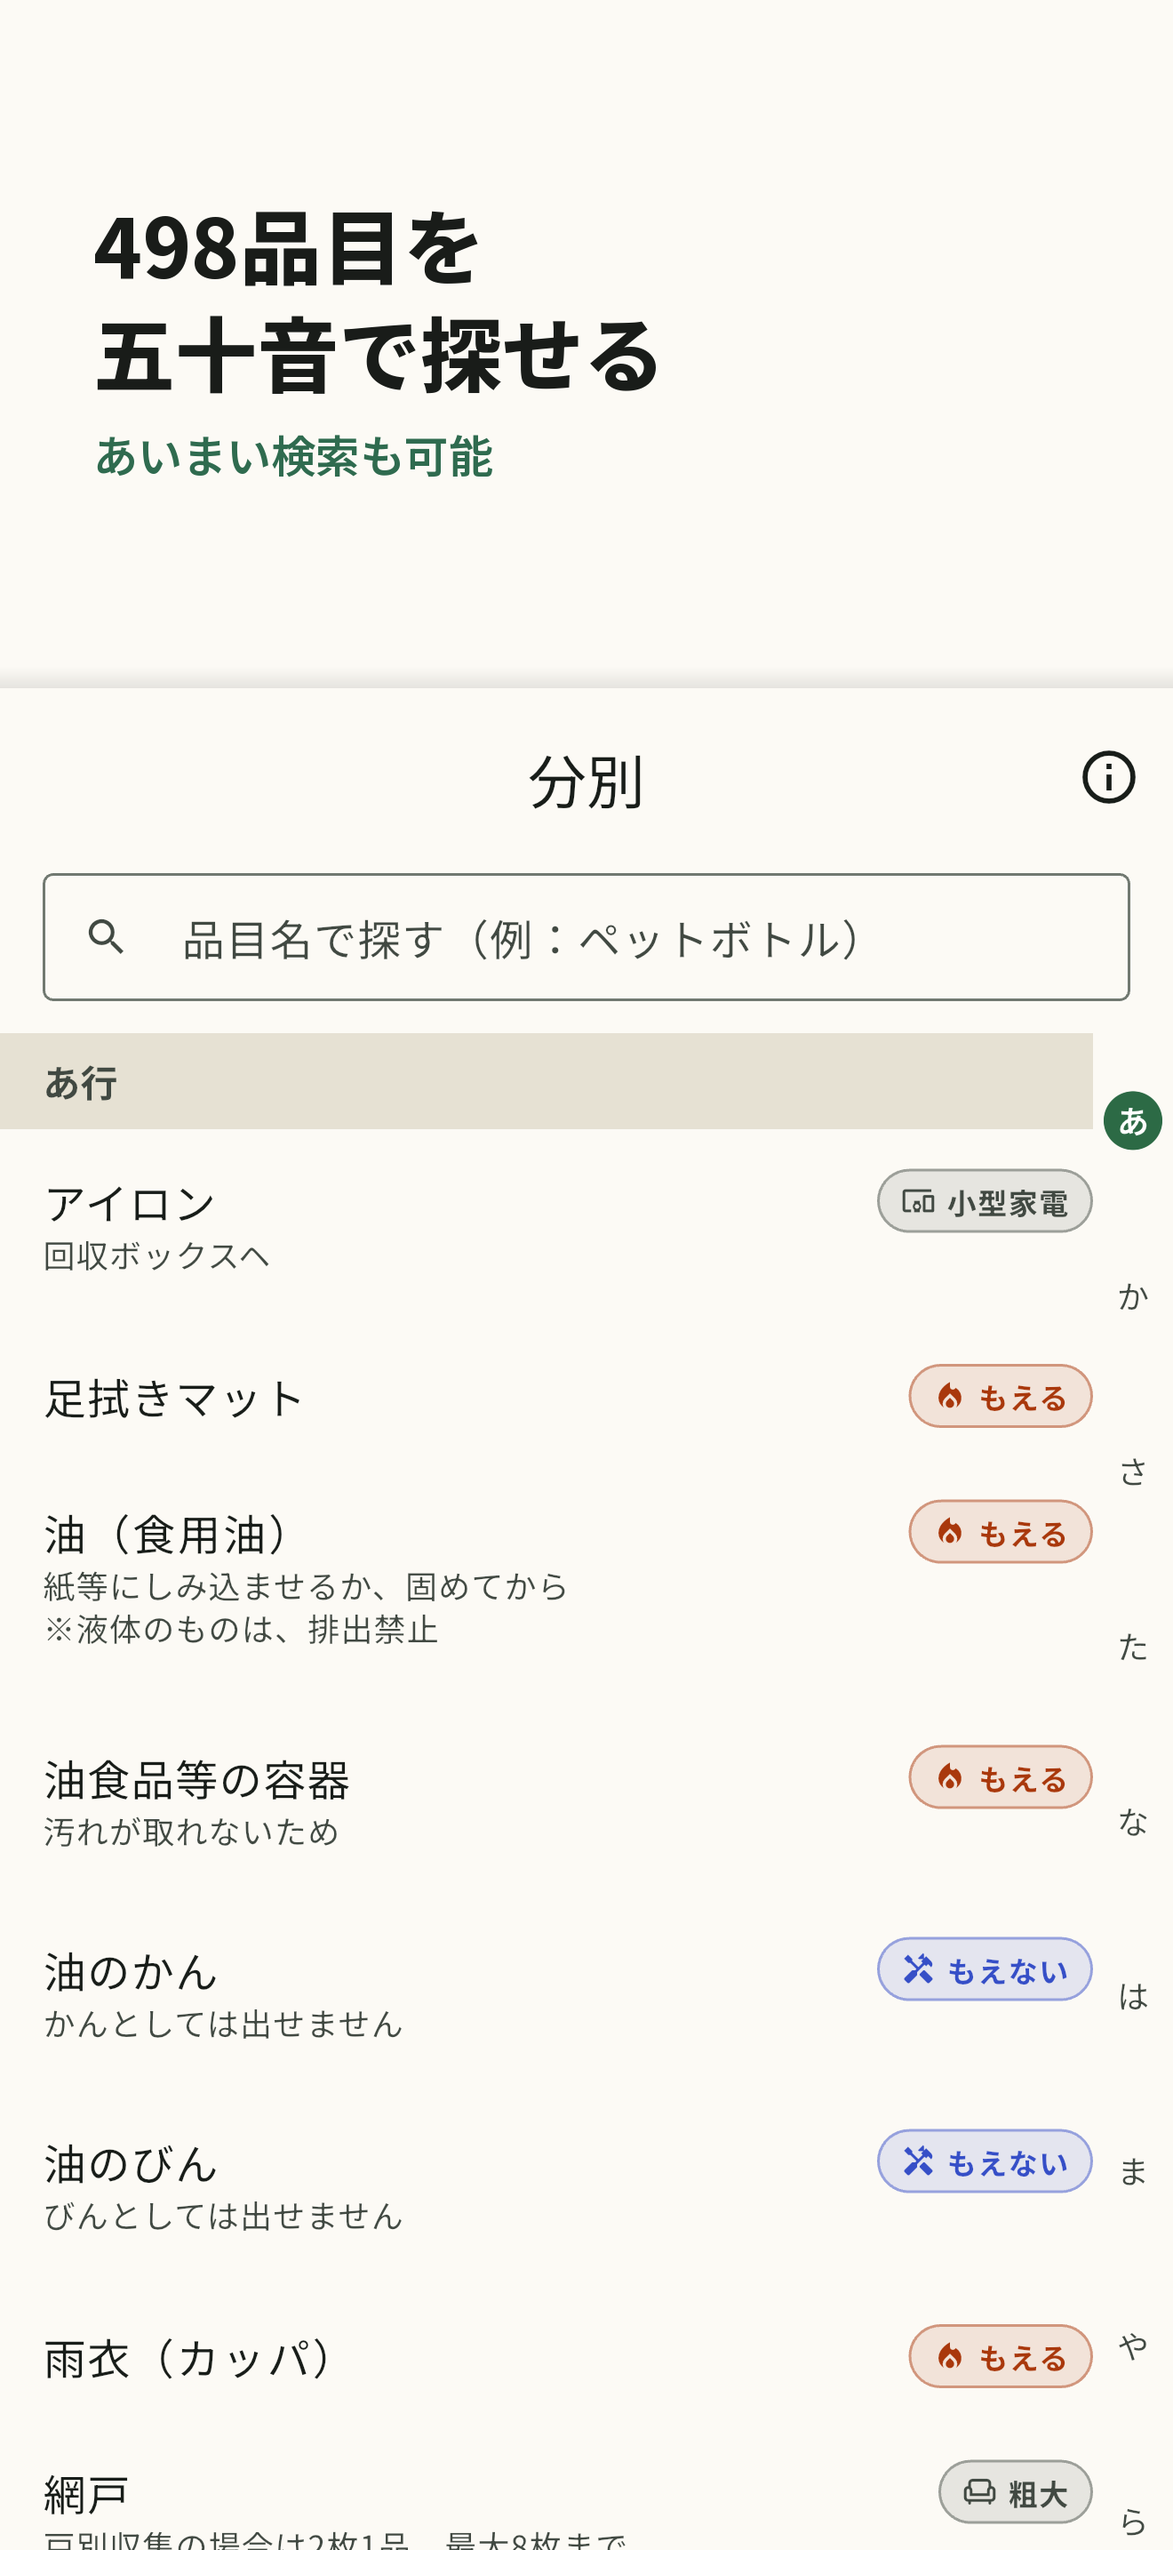
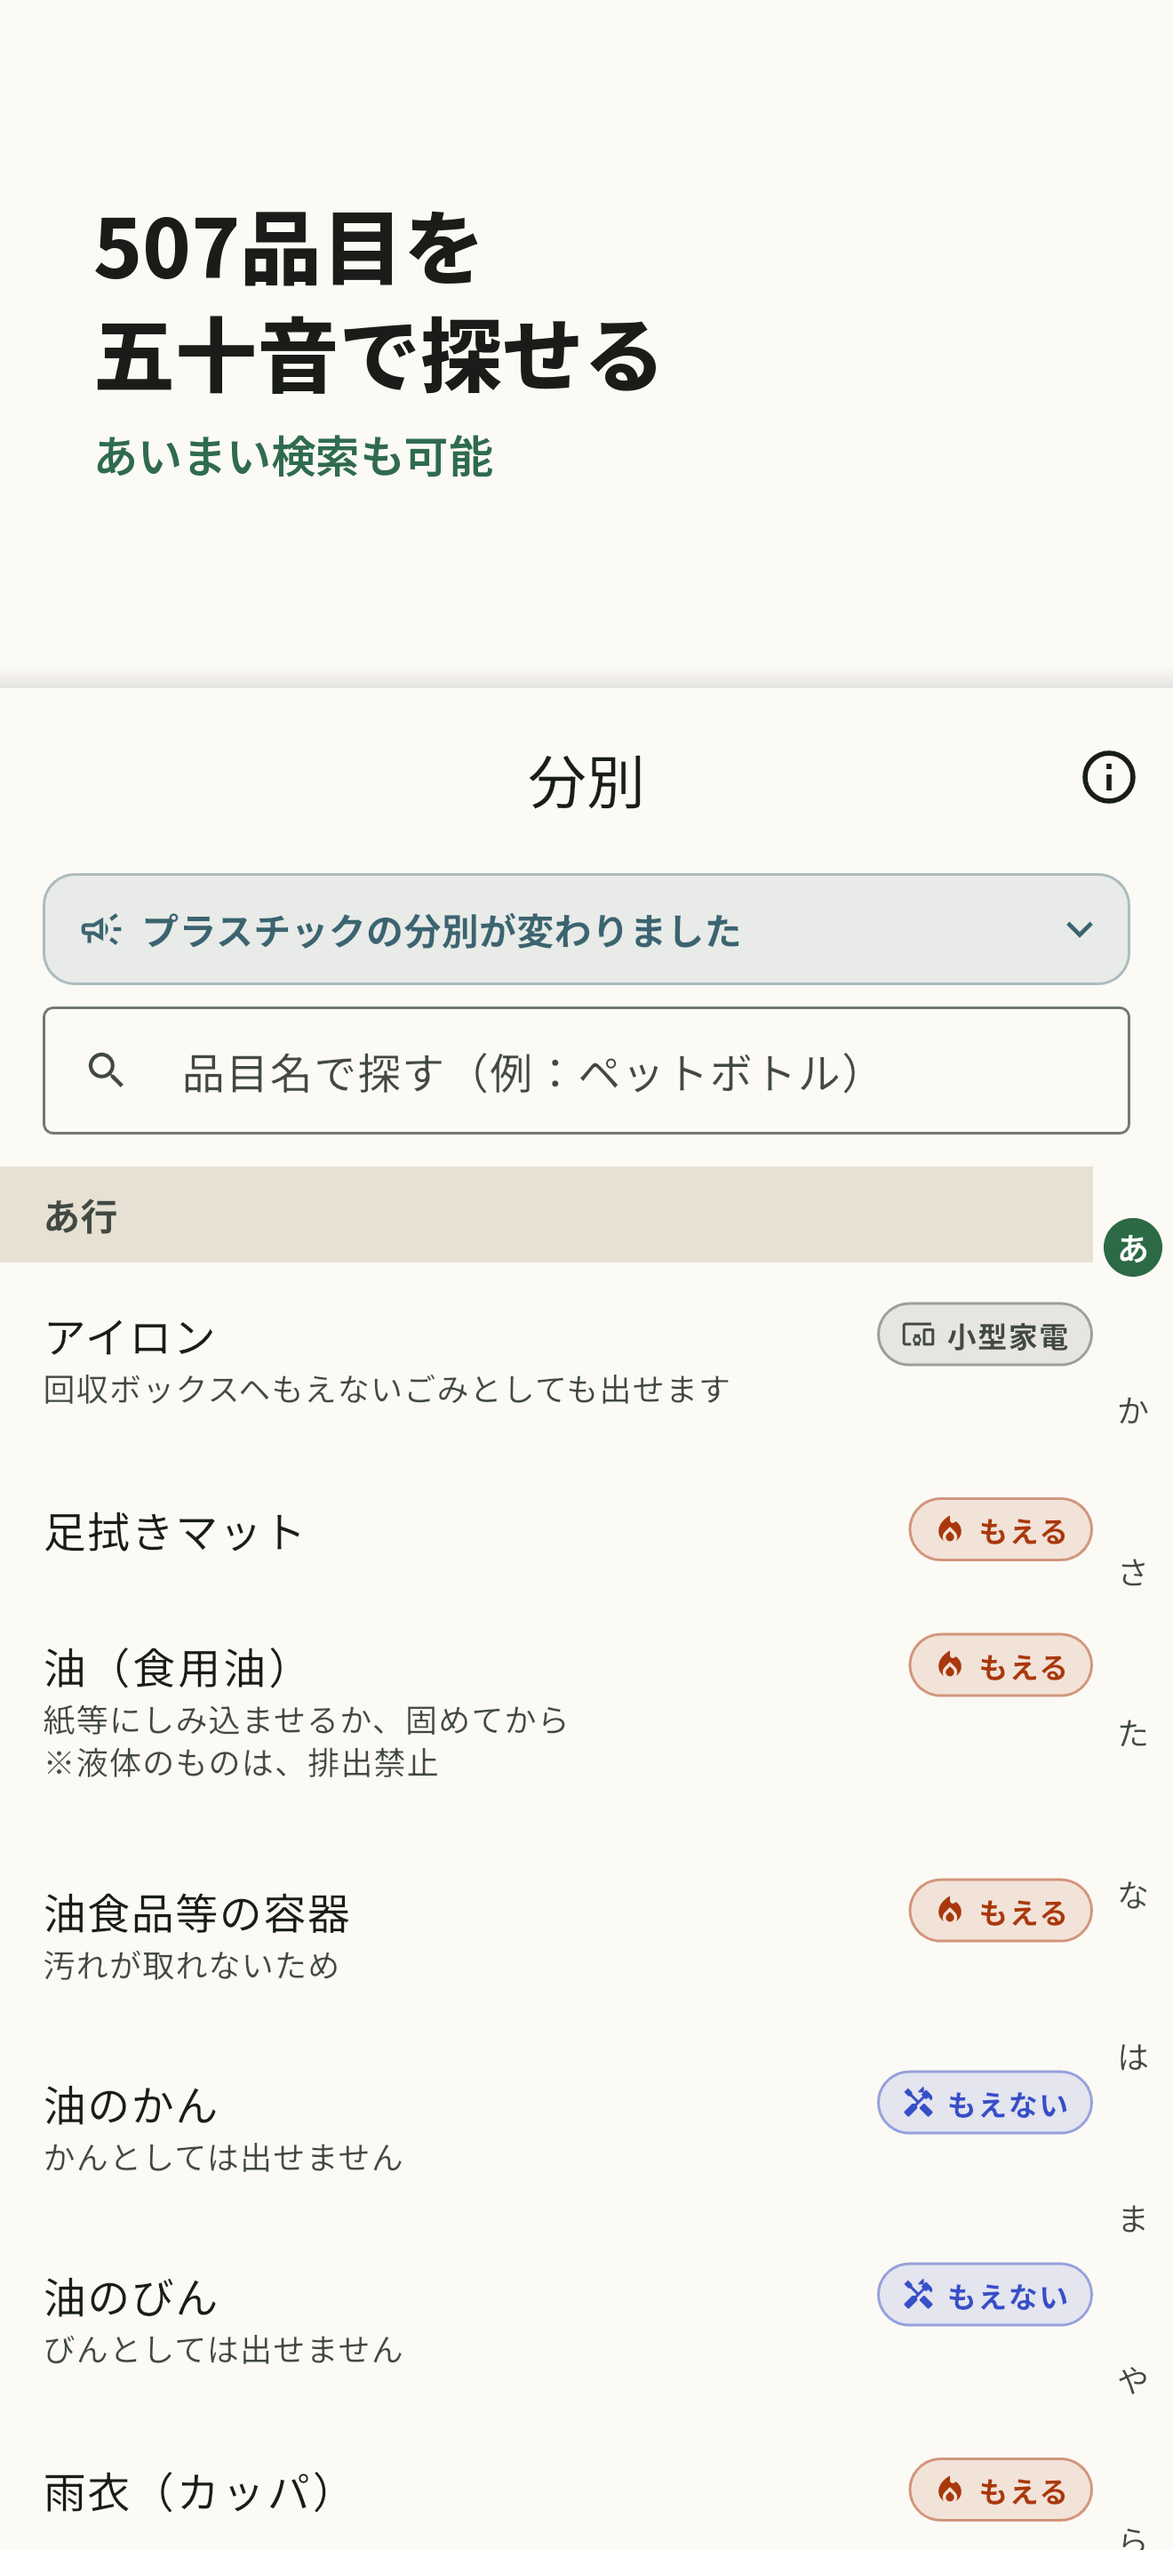
1.3.0を審査に出す準備をする (#158)
* 1.3.0を審査に出す準備をする

1.2.0から変わったのは、プラスチックの分別変更の反映と、落ちていた注意書き・
品目の復元（#155）、知らせの折り畳み（#156）。

不具合の修正だけでなく、これまで無かった表示（資源物1類に出せる条件、
足した品目、知らせの開け閉め）が増えるので、1.2.1ではなく1.3.0にした。
知らせを足した1.2.0と同じ扱い。

品目数が498から507になったので、READMEや画面の説明の数を合わせた。
ストアの説明とスクリーンショットのコピーも同じ数に直す。

提出は実機での確認（#157）が済んでから。

Claude-Session: https://claude.ai/code/session_01Ny9iz78XEEn5LZebqm3xXE

* 分別のスクリーンショットを撮り直す

コピーの品目数が507になり、画面の上に分別変更の知らせが出るようになった。
知らせは畳んだ状態で撮っている。広げると一覧がほとんど写らないため。

Claude-Session: https://claude.ai/code/session_01Ny9iz78XEEn5LZebqm3xXE

---------

diff --git a/lib/features/dictionary/dictionary_page.dart b/lib/features/dictionary/dictionary_page.dart
@@ -18,7 +18,7 @@ import 'waste_item_sheet.dart';
 /// 収集日を知りたいのがホーム・カレンダーなら、こちらは「これは何ごみか」を
 /// 調べるための画面。名前で絞り込めることが第一なので、検索欄を最上部に置く。
 ///
-/// 一覧は市の早見表と同じ五十音順で、右端に索引を出す。498件あるので、
+/// 一覧は市の早見表と同じ五十音順で、右端に索引を出す。507件あるので、
 /// 検索語を思いつかないときに「た行あたり」と当たりを付けて飛べる必要がある。
 class DictionaryPage extends ConsumerStatefulWidget {
   const DictionaryPage({super.key});

diff --git a/scripts/make_store_screenshots.py b/scripts/make_store_screenshots.py
@@ -33,7 +33,7 @@ STRIPS = [
     ("00_home.png", "明日は何ごみ？", "開いた瞬間に分かる"),
     ("01_widget.png", "ホーム画面から\n確認可能", "アプリを開かなくても明日のごみが分かる"),
     ("02_calendar.png", "今月の収集日が\nひと目で", None),
-    ("03_dictionary.png", "498品目を\n五十音で探せる", "あいまい検索も可能"),
+    ("03_dictionary.png", "507品目を\n五十音で探せる", "あいまい検索も可能"),
     ("04_settings.png", "前日の夜に\nお知らせ", "出し忘れを防ぐ"),
 ]
 

diff --git a/store_assets/app_store/1.3.0.md b/store_assets/app_store/1.3.0.md
@@ -1,0 +1,167 @@
+# 1.3.0 の App Store 提出用文言
+
+1.2.0（ビルド24）から1.3.0（ビルド25）で変わったところをもとに書いた文言。
+
+**まだ提出していない。** 実機での確認（#157）が済んでから出す。
+
+1.2.0は App Store Connect API で確認したところ READY_FOR_SALE、つまり
+すでに公開済みなので、「このバージョンの新機能」は1.2.0からの差分だけを書く。
+
+アプリの中身で変わったのは次の3つ。
+
+- 10月1日のプラスチックの分別変更を、分別の一覧に反映した（#155）
+- 市の資料から取り込むときに落ちていた注意書き81件と2品目を戻した（#155）
+- 分別変更の知らせを畳めるようにした（#156）
+
+バージョンを1.2.1ではなく1.3.0にした。不具合の修正だけでなく、これまで
+無かった表示（資源物1類に出せる条件、足した品目、知らせの開け閉め）が
+増えるため。知らせを足した1.2.0と同じ扱いにしている。
+
+括弧内は App Store Connect の入力欄の上限文字数。
+
+## このバージョンの新機能（4,000字）
+
+```
+10月1日からのプラスチックの分別変更を、分別の一覧に反映しました。
+
+■ プラスチックの分別変更を反映しました
+さいたま市は令和8年10月1日から、歯ブラシ・ストローなどのプラスチック製品を「資源物1類（プラスチック資源）」として集めています。市の資料が品目を示しているものを、分別の一覧に反映しました。
+
+・歯ブラシ、ストロー、定規、プラスチック製のスプーンとフォークを、資源物1類にしました。
+・市が早見表で印を付けている23品目（タッパー、洗面器、おもちゃ、バケツなど）には、「プラスチック製で30cm未満なら資源物1類」と出します。材質や大きさで出し先が変わるので、区分はそのままにして条件を添えています。
+・クリアファイル、CDケース、気泡緩衝材など、市のリーフレットに載っている7品目を足しました。
+
+■ 欠けていた注意書きを戻しました
+「金属製は、もえないごみ」「液体のものは、排出禁止」など、およそ80品目の注意書きが一覧に出ていませんでした。市の資料から取り込むときに落ちていたものです。同じ理由で抜けていた2品目（じょうろ、車用のジャッキ）も足しました。
+
+調べられる品目は498品目から507品目になりました。
+
+■ 分別変更の知らせを畳めるようにしました
+分別の画面の上に出る知らせは、見出しを押すと畳めます。一覧を送り始めたときや、検索を始めたときにも畳まれます。
+
+端末の中だけで完結する点、サーバーと通信しない点はこれまでどおりです。
+```
+
+## プロモーションテキスト（170字）
+
+**空のまま。** 1.2.0のときに「市が品目別の分別を公表したあと、こちらの
+データ更新が遅れるようなら使う」としていた。1.3.0でデータを反映するので、
+使う理由がなくなった。
+
+## キーワード（100字・カンマ区切り）
+
+変更なし。
+
+```
+ごみ,ゴミ,ごみ出し,ゴミ出し,分別,ごみ分別,収集日,ごみの日,埼玉,埼玉県,浦和,大宮,岩槻,リマインダー,通知,ウィジェット,粗大ごみ
+```
+
+## 説明（4,000字）
+
+骨格は1.2.0のまま、品目数の2か所だけを直す。
+
+1. 「■ 498品目の分別を、五十音で探せる」→「■ 507品目の…」
+2. 本文の「…品目を補って、498品目を収録しました」→「…507品目を収録しました」
+
+507は、早見表448件（落ちていた2品目を戻した）に、図解のページからの補い52件と、
+プラスチックの分別変更で足した7件を合わせた数。
+
+説明は「このバージョンの新機能」と違って前の版から引き継がれるだけなので、
+提出のときにこの2か所を書き換える（`PATCH /v1/appStoreVersionLocalizations/{id}`
+の`description`）。
+
+## App Review に関する情報（審査メモ）
+
+1.0.0からの日英併記をそのまま残し、「今回の変更」の節だけを1.3.0のものに
+差し替える。
+
+1.2.0のときは、知らせが端末の日付によって出ないことを断っていた。いまは
+10月1日を過ぎているので、普通に起動すれば出る。その断りは外す。
+
+```
+■ 今回の変更（1.3.0）について
+
+さいたま市が令和8年（2026年）10月1日からプラスチックの分別を変更したため、
+アプリに同梱している分別の一覧を、市の資料に合わせて更新しました。
+
+・一部の品目の分別区分と注意書きを更新し、7品目を追加しました。
+・市の資料から取り込む際に欠けていた注意書きと2品目を補いました。
+・「分別」タブの上部に表示している変更の知らせを、見出しを押して
+  折り畳めるようにしました。折り畳んだかどうかは端末内に保存します。
+
+更新した内容はすべてアプリに同梱したデータで、通信して取得するものでは
+ありません。知らせの中の「市の最新の案内を見る」と、「このアプリについて」の
+出典は、さいたま市の告知ページ
+（https://www.city.saitama.lg.jp/001/006/010/003/p127278.html）を
+外部ブラウザで開きます。アプリ自身が通信するものではありません。
+
+新しい権限は要求しません。サーバーと通信しない点も1.0.0から変わっていません。
+```
+
+```
+■ What is new in this version (1.3.0)
+
+Saitama City changed its plastic waste sorting rules on October 1, 2026.
+This version updates the sorting list bundled with the app to match the
+materials published by the city.
+
+- Updated the category and notes of some items, and added 7 items.
+- Restored notes and 2 items that had been dropped when the list was
+  imported from the city's manual.
+- The notice shown at the top of the 分別 (sorting) tab can now be collapsed
+  by tapping its header. Whether it is collapsed is stored on the device.
+
+All updated content is data bundled with the app; nothing is fetched over
+the network. The link inside the notice ("市の最新の案内を見る") and the
+source link on the About screen open Saitama City's announcement page
+(https://www.city.saitama.lg.jp/001/006/010/003/p127278.html) in an
+external browser. The app itself does not make network requests.
+
+No new permissions are requested. As in 1.0.0, the app does not communicate
+with any server.
+```
+
+## 変更しないもの
+
+- 年齢制限（4+）、カテゴリ、価格
+- プライバシー申告（データを収集しない）。知らせを畳んだかどうかは端末内の
+  設定（`UserDefaults`）に保存するだけで、外へは出ない
+- 暗号化の申告 — `ITSAppUsesNonExemptEncryption = false`
+  （`ios/Runner/Info.plist`）
+- iPhone専用（`TARGETED_DEVICE_FAMILY = 1`）。iPad用スクリーンショットは不要
+- サポートURL（GitHubのIssues）
+- キーワード・サブタイトル
+
+## スクリーンショット
+
+**4枚目（`03_dictionary.png`）だけ撮り直した。** ほかの4枚（ホーム・ウィジェット・
+カレンダー・設定）は、今回の変更では見た目が変わらない。
+
+4枚目は2つの理由で古くなっていた。
+
+- コピーの「498品目」が507品目になった
+- 分別の画面の上に、変更の知らせが出るようになった（10月1日を過ぎたため）。
+  前のスクリーンショットには写っていなかった
+
+知らせは**畳んだ状態**で撮った。広げると画面の半分近くを占めて、一覧が
+ほとんど写らない。このスクリーンショットで見せたいのは一覧のほうなので、
+`flutter.sorting_notice_collapsed_plastic2026`を`true`にして起動している
+（ほかの設定は`store_assets/screenshots/README.md`の手順どおり。地区は
+1.1.1と同じ「南区 南浦和1〜4丁目」）。
+
+提出のときに、App Store Connect 側の4枚目を差し替える。
+
+| # | ファイル | コピー | 添え書き |
+|---|---|---|---|
+| 1 | `00_home.png` | 明日は何ごみ？ | 開いた瞬間に分かる |
+| 2 | `01_widget.png` | ホーム画面から／確認可能 | アプリを開かなくても明日のごみが分かる |
+| 3 | `02_calendar.png` | 今月の収集日が／ひと目で | （なし） |
+| 4 | `03_dictionary.png` | 507品目を／五十音で探せる | あいまい検索も可能 |
+| 5 | `04_settings.png` | 前日の夜に／お知らせ | 出し忘れを防ぐ |
+
+## 関連
+
+- #155（プラスチックの分別変更の反映、欠けていた注意書きの復元）
+- #156（知らせの折り畳み）
+- #157（実機での確認。済んでから提出する）
+- #20（10月1日の分別変更。#155で閉じた）

diff --git a/README.md b/README.md
@@ -21,7 +21,7 @@
 | 初回設定 | 郵便番号または一覧から地区を選ぶと曜日が自動で決まる。地区が見つからない場合のみ曜日を手入力する。設定するまで他の画面に進まない |
 | ホーム | 明日の分別を最大サイズで表示。収集日の朝は、出す期限を過ぎるまで「今日」を出す。この先の予定・分別ごとの次回収集日 |
 | カレンダー | 当月のごみ出し日を月表示。左右になぞって月を送れる（前1か月・後3か月）。日をタップで出し方 |
-| 分別 | 498品目を五十音順に。品目名で検索、右端の索引をなぞって行へ飛ぶ |
+| 分別 | 507品目を五十音順に。品目名で検索、右端の索引をなぞって行へ飛ぶ |
 | 設定 | 地区の変更、通知、画面の明るさ、設定中の曜日一覧、分別ごとの出し方 |
 | このアプリについて | バージョン・出典・プライバシーポリシー・ライセンス |
 

diff --git a/docs/design.md b/docs/design.md
@@ -190,7 +190,7 @@ SaitamaGomiApp (MaterialApp, ja固定)
     │   └ IndexedStack（タブ切り替えでカレンダーの表示月を失わないため）
     │       ├ HomePage       今日／明日を最大化、もう一方、この先6件、分別ごとの次回
     │       ├ CalendarPage   月表示。前1か月・後3か月まで送れる
-    │       ├ DictionaryPage 498品目を五十音で。右端に行の索引
+    │       ├ DictionaryPage 507品目を五十音で。右端に行の索引
     │       └ SettingsPage   地区・通知・画面の明るさ・設定中の曜日・分別と出し方
     └ AsyncError             → エラー表示（設定読み込み失敗）
 

diff --git a/docs/requirements.md b/docs/requirements.md
@@ -125,7 +125,7 @@
   ダイアログには元の資料へのリンクも添える。要約なので、判断に迷うときの
   ために元の資料へ出られるようにする（このアプリについて・分別の詳細
   シートと同じ考え方）
-- 右端に五十音の索引を出す。498件あるので、検索語を思いつかないときに
+- 右端に五十音の索引を出す。507件あるので、検索語を思いつかないときに
   当たりを付けられる必要がある。絞り込み中は行が飛び飛びになって
   かえって探しにくいので出さない
 - 索引は**五十音の行（あ・か・さ…）10個**。市の早見表はかな1文字ごとに

diff --git a/store_assets/screenshots/README.md b/store_assets/screenshots/README.md
@@ -138,7 +138,7 @@ python3 scripts/make_store_screenshots.py
 | `00_home.png` | ホーム | 明日は何ごみ？ |
 | `01_widget.png` | ホーム画面ウィジェット（中・小） | ホーム画面から／確認可能 |
 | `02_calendar.png` | カレンダー | 今月の収集日が／ひと目で |
-| `03_dictionary.png` | 分別 | 498品目を／五十音で探せる |
+| `03_dictionary.png` | 分別 | 507品目を／五十音で探せる |
 | `04_settings.png` | 設定 | 前日の夜に／お知らせ |
 
 初回設定（地区選択）の画面は入れていない。地区を選ぶのは最初の一度きりで、
